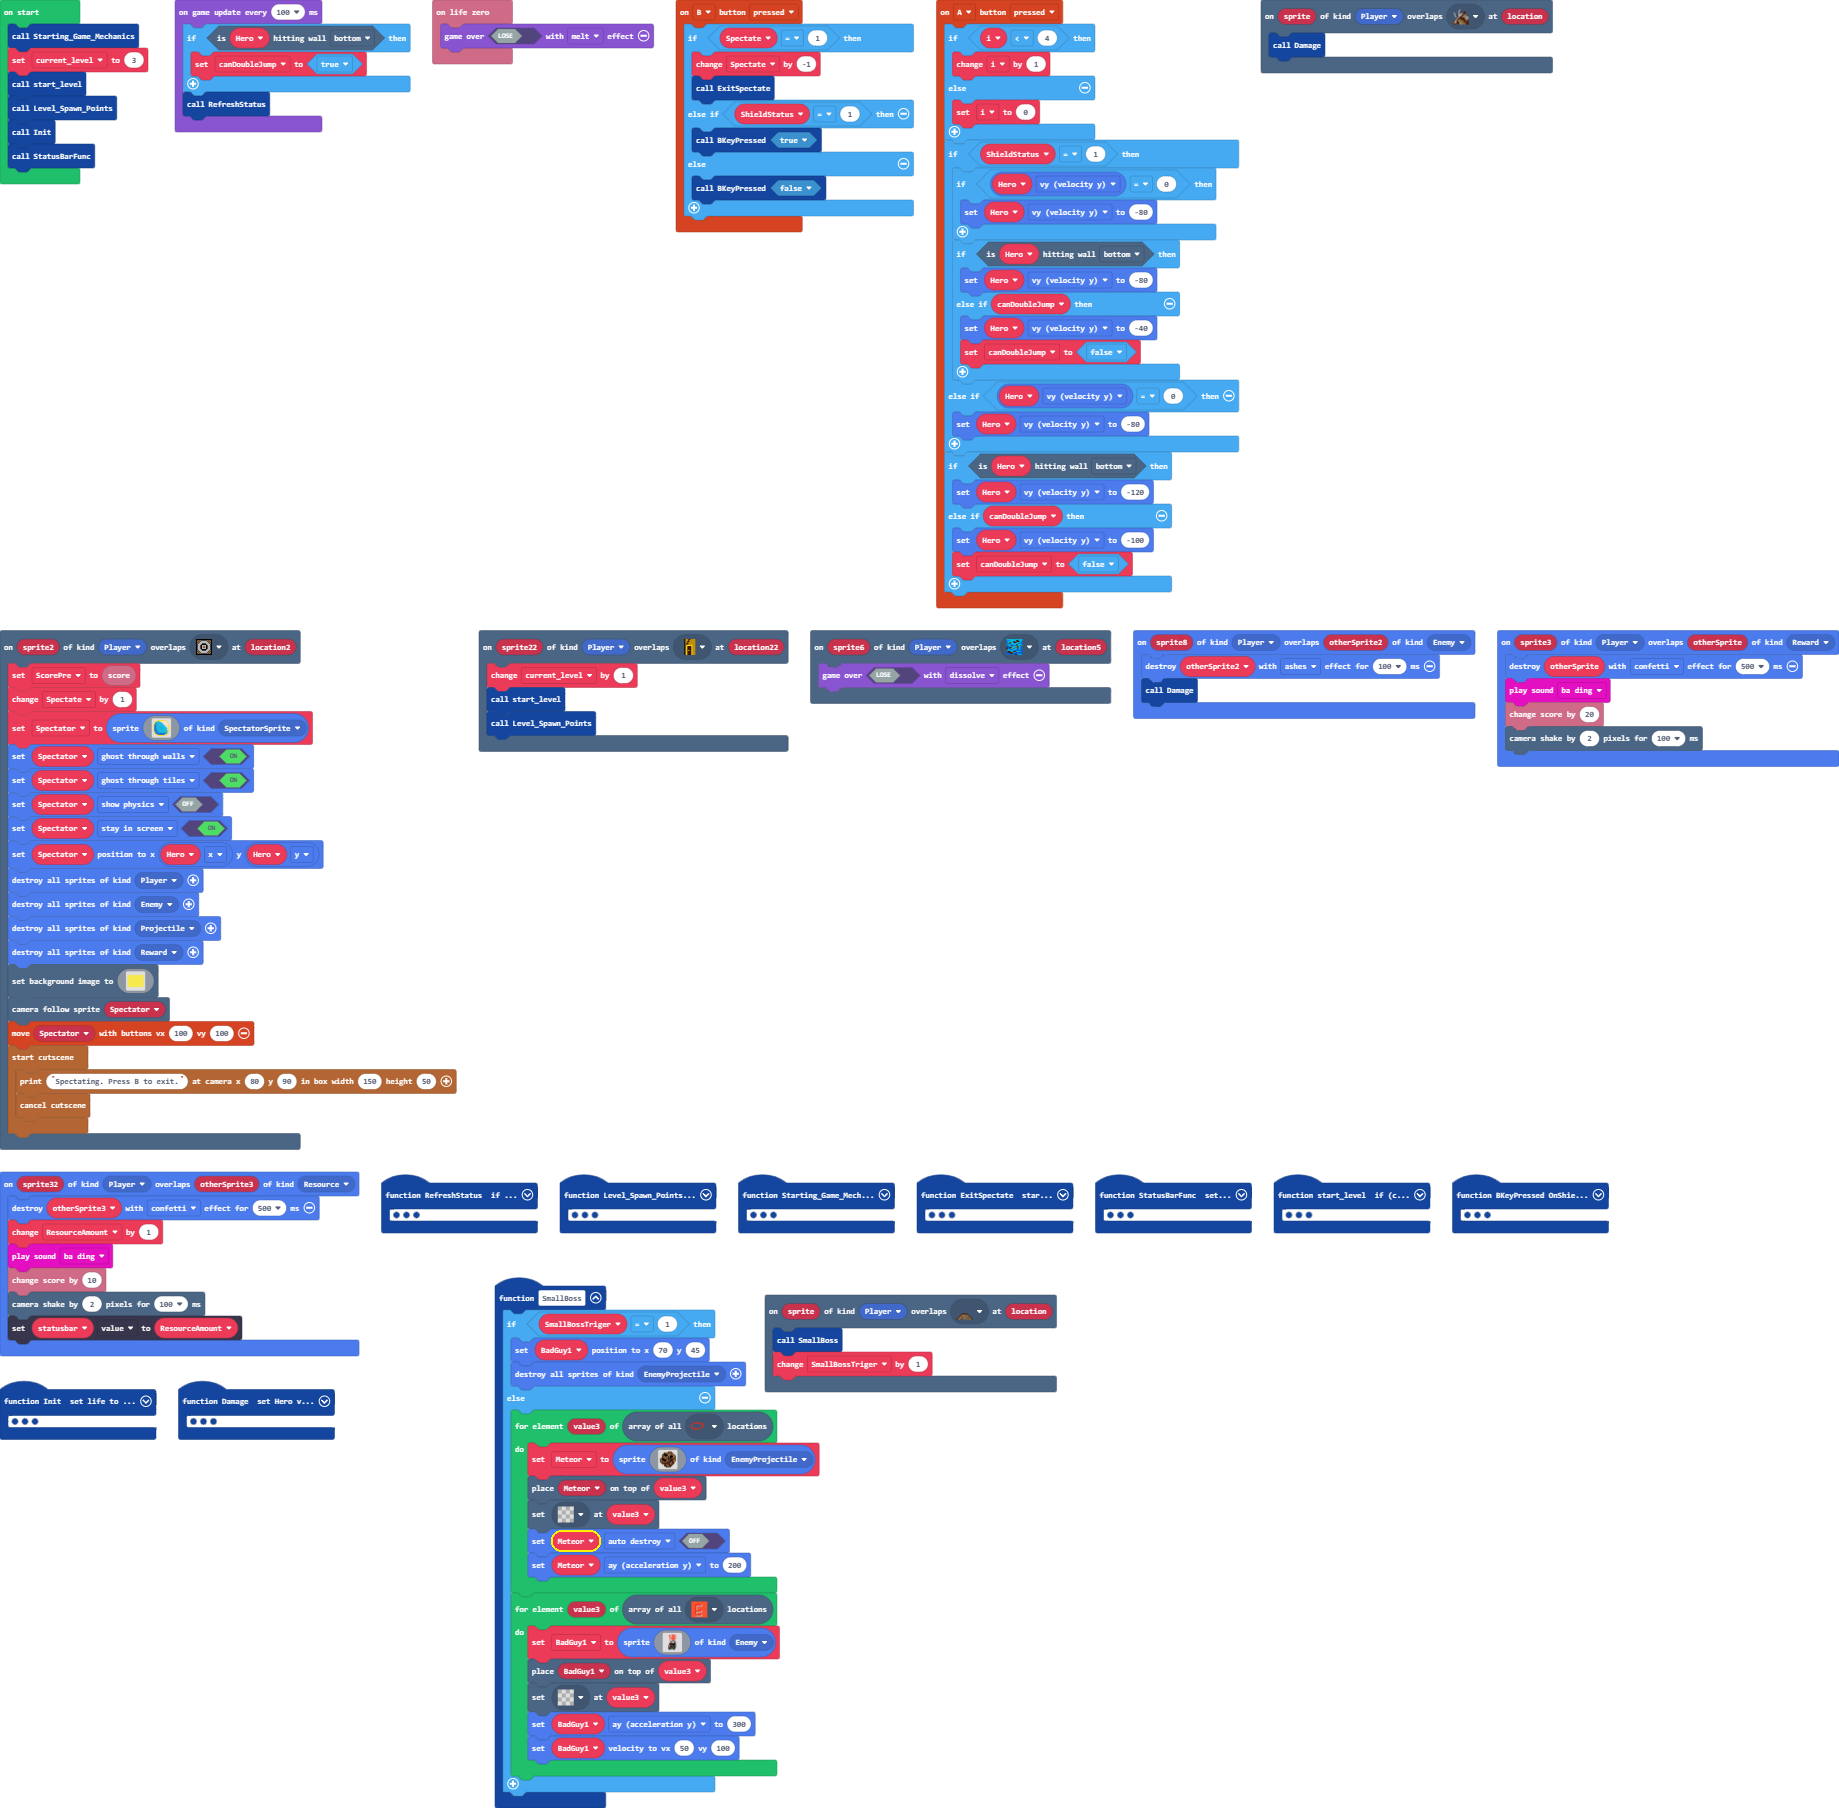
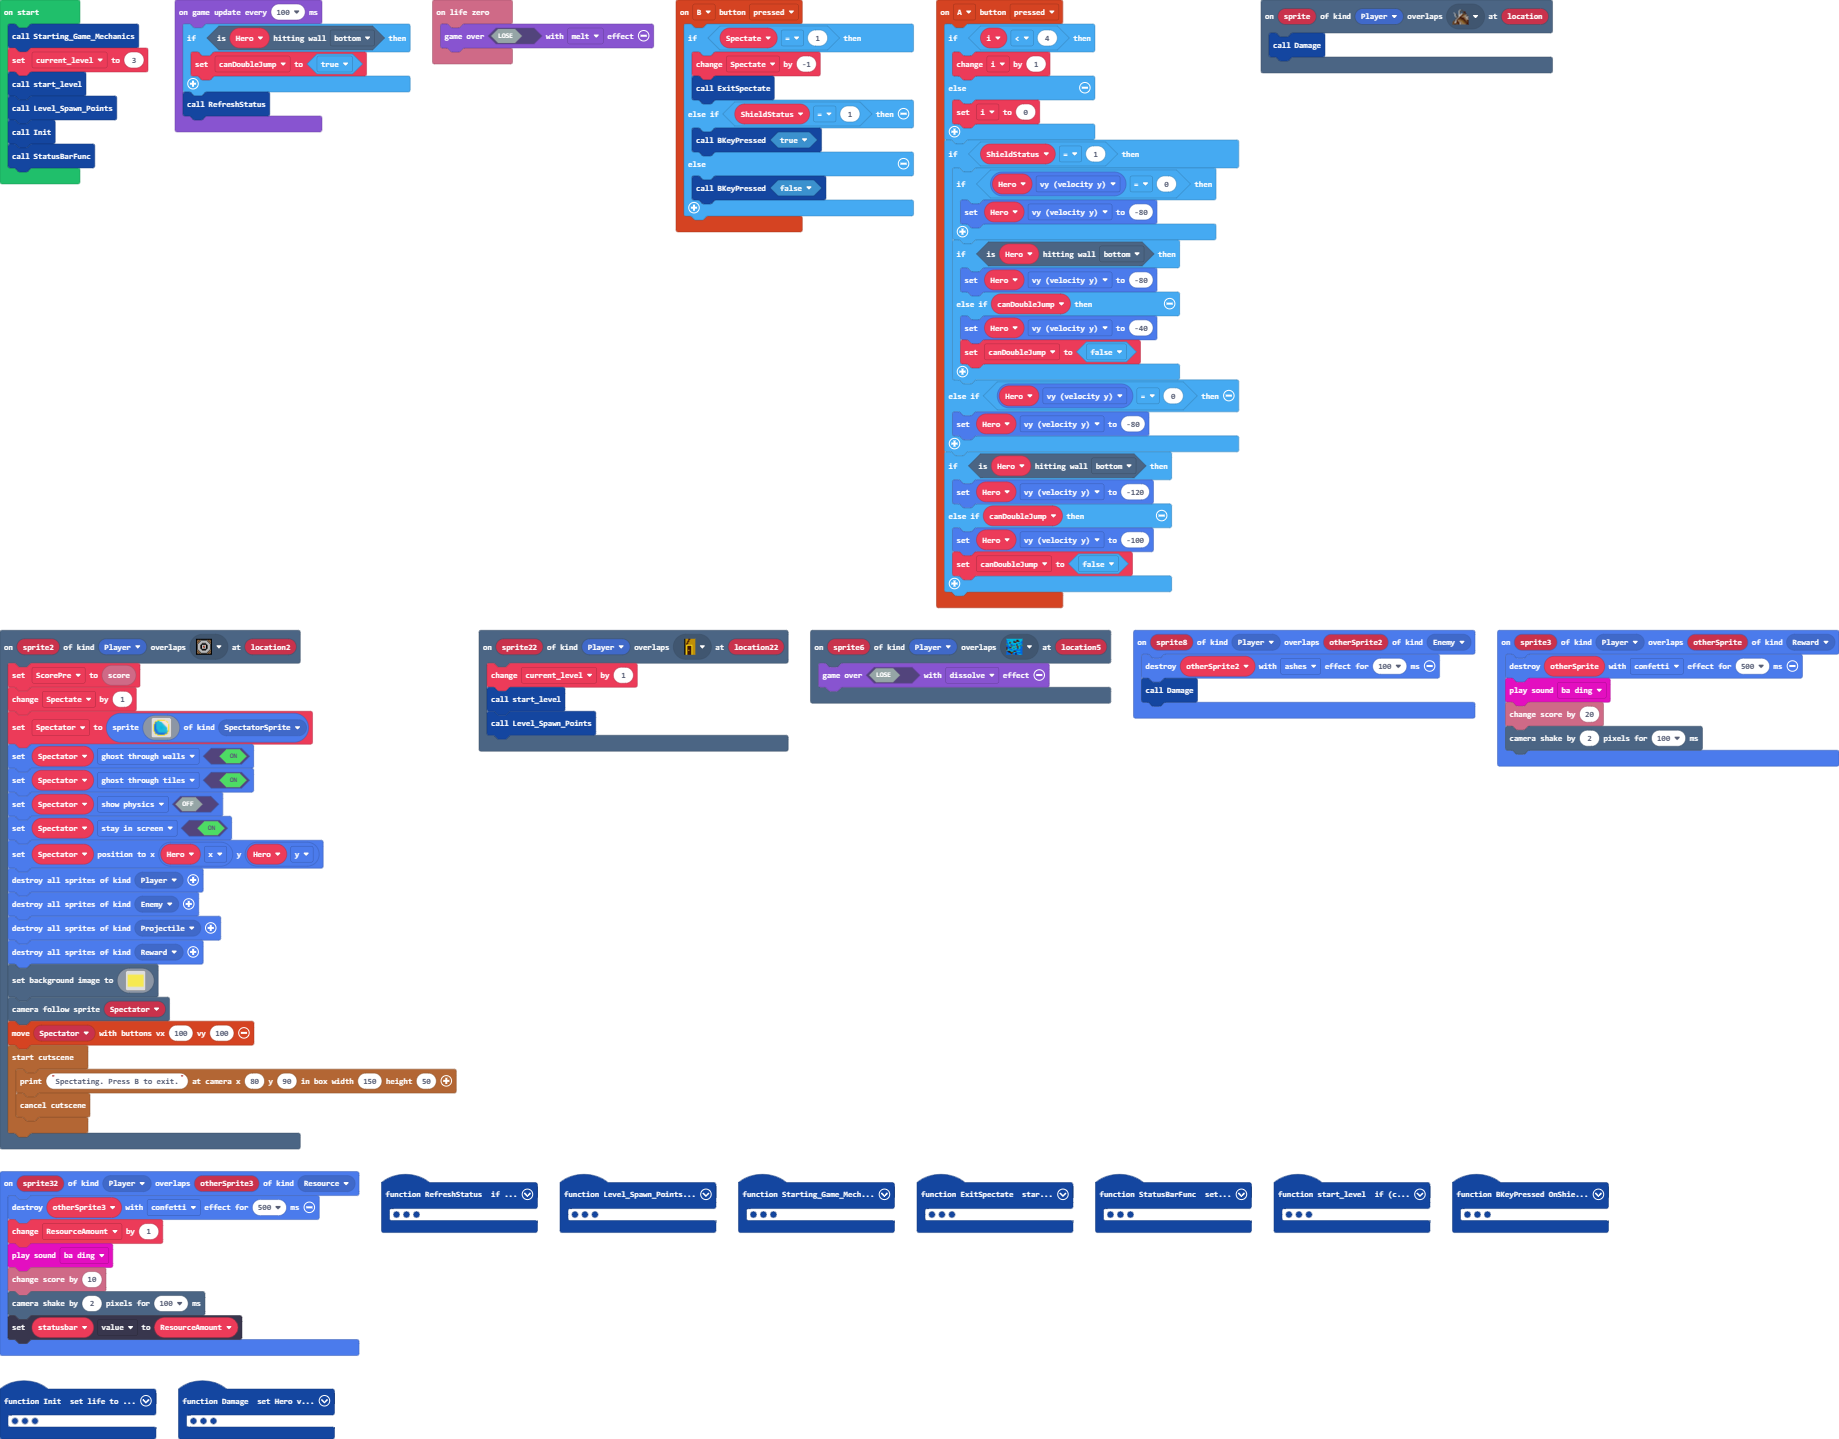
Update main.blocks, main.ts, tilemap.g.jres, tilemap.g.ts

Changed region(s): [[0.0, 0.3363, 0.8989, 1.0], [0.0, 0.0, 1.0, 0.5504], [0.6819, 0.0, 0.8679, 0.0612]]

diff --git a/tilemap.g.ts b/tilemap.g.ts
@@ -9,8 +9,6 @@ namespace myTiles {
     //% fixedInstance jres blockIdentity=images._tile
     export const tile5 = image.ofBuffer(hex``);
     //% fixedInstance jres blockIdentity=images._tile
-    export const tile6 = image.ofBuffer(hex``);
-    //% fixedInstance jres blockIdentity=images._tile
     export const tile14 = image.ofBuffer(hex``);
     //% fixedInstance jres blockIdentity=images._tile
     export const tile15 = image.ofBuffer(hex``);
@@ -65,7 +63,7 @@ namespace myTiles {
     //% fixedInstance jres blockIdentity=images._tile
     export const tile2 = image.ofBuffer(hex``);
     //% fixedInstance jres blockIdentity=images._tile
-    export const tile32 = image.ofBuffer(hex``);
+    export const tile6 = image.ofBuffer(hex``);
 
     helpers._registerFactory("tilemap", function(name: string) {
         switch(helpers.stringTrim(name)) {
@@ -142,44 +140,25 @@ namespace myTiles {
 2222222222222222222.............222222222222222222
 2222222222222222222.............222222222222222222
 `, [myTiles.transparency16,myTiles.tile5,myTiles.tile16,myTiles.tile22,myTiles.tile23,myTiles.tile14,myTiles.tile4,myTiles.tile3,myTiles.tile7,myTiles.tile10,myTiles.tile21,myTiles.tile1,myTiles.tile11,myTiles.tile9,myTiles.tile13,myTiles.tile17,sprites.dungeon.hazardWater,sprites.builtin.forestTiles0], TileScale.Sixteen);
-            case "level4":
-            case "level4":return tiles.createTilemap(hex`1000100000000000000000000000000000000000000000000000000000000000000000000000000000000000000000000000000000000000000000000000000000000000000000000000000000000000000000000000000000000000000000000000000000000000000000000000000000000000000000000000000000000000000000000000000000000000000000000000000000000000000000000000000000000000000000000000000000000000000000000000000000000000000000000000000000000000000000000000000000000000000000000000000000000000000000000000000000000000000000000000000000000000000000000000000000000000`, img`
-. . . . . . . . . . . . . . . . 
-. . . . . . . . . . . . . . . . 
-. . . . . . . . . . . . . . . . 
-. . . . . . . . . . . . . . . . 
-. . . . . . . . . . . . . . . . 
-. . . . . . . . . . . . . . . . 
-. . . . . . . . . . . . . . . . 
-. . . . . . . . . . . . . . . . 
-. . . . . . . . . . . . . . . . 
-. . . . . . . . . . . . . . . . 
-. . . . . . . . . . . . . . . . 
-. . . . . . . . . . . . . . . . 
-. . . . . . . . . . . . . . . . 
-. . . . . . . . . . . . . . . . 
-. . . . . . . . . . . . . . . . 
-. . . . . . . . . . . . . . . . 
-`, [myTiles.transparency16], TileScale.Sixteen);
             case "level":
-            case "level3":return tiles.createTilemap(hex`1000100000000000000000000000000000000000000000000000000000000000000000000000000000080008000800000000000000000000000000000000000000000000000000000000000000000000000000000000000000000000000000000000000000000000000000000000000000000000000000000000000000000000000000000000000000000000000000000000000000000000000000000000000000000000000000000000000000000000000000000000000000000000000000000000000702000600000000000000000306000001040404040404040404040404040404040505050505050505050505050505050505050505050505050505050505050505`, img`
+            case "level3":return tiles.createTilemap(hex`1000100005080800000000000000000000000000080808080000000000000000000000000707070707070707070000000000000000060000060006000600000000000000000600000600060006000700000000000006000006000600060006000000000000060000060006000600060007000000000600000600060006000700060000000006000006000600070006000600000000060000060007000600060006000000000600000700060006000600060000000006070006000600060006000600000302060609060906090609060906000001040404040404040404040404040404040000000000000000000000000000000000000000000000000000000000000000`, img`
+. 2 2 . . . . . . . . . . . . . 
+2 2 2 2 . . . . . . . . . . . . 
+2 2 2 2 2 2 2 2 2 . . . . . . . 
+. 2 . . 2 . 2 . 2 . . . . . . . 
+. . . . . . . . . . 2 . . . . . 
 . . . . . . . . . . . . . . . . 
-. . . . . . . . . . . . . . . . 
-. . . . . . . . . . . . . . . . 
-. . . . . . . . . . . . . . . . 
-. . . . . . . . . . . . . . . . 
-. . . . . . . . . . . . . . . . 
-. . . . . . . . . . . . . . . . 
-. . . . . . . . . . . . . . . . 
-. . . . . . . . . . . . . . . . 
-. . . . . . . . . . . . . . . . 
-. . . . . . . . . . . . . . . . 
-. . . . . . . . . . . . . . . 2 
-. . . . . . . . . . . . . . . . 
+. . . . . . . . . . . . 2 . . . 
+. . . . . . . . . . 2 . 2 . . . 
+. . . . . . . . 2 . 2 . 2 . . . 
+. . . . . . 2 . 2 . 2 . 2 . . . 
+. . . . 2 . 2 . 2 . 2 . 2 . . . 
+. . 2 . 2 . 2 . 2 . 2 . 2 . . 2 
+. . 2 . 2 . 2 . 2 . 2 . 2 . . . 
 2 2 2 2 2 2 2 2 2 2 2 2 2 2 2 2 
 2 2 2 2 2 2 2 2 2 2 2 2 2 2 2 2 
 2 2 2 2 2 2 2 2 2 2 2 2 2 2 2 2 
-`, [myTiles.transparency16,myTiles.tile21,myTiles.tile16,myTiles.tile6,myTiles.tile23,myTiles.tile3,myTiles.tile25,myTiles.tile1,myTiles.tile32], TileScale.Sixteen);
+`, [myTiles.transparency16,myTiles.tile21,myTiles.tile16,myTiles.tile1,myTiles.tile9,myTiles.tile8,myTiles.tile19,myTiles.tile20,myTiles.tile28,myTiles.tile2], TileScale.Sixteen);
         }
         return null;
     })
@@ -193,8 +172,6 @@ namespace myTiles {
             case "tile16":return tile16;
             case "Reward Spawn":
             case "tile5":return tile5;
-            case "Enemy Spawn Points":
-            case "tile6":return tile6;
             case "myTile4":
             case "tile14":return tile14;
             case "myTile12":
@@ -249,8 +226,8 @@ namespace myTiles {
             case "tile31":return tile31;
             case "myTile0":
             case "tile2":return tile2;
-            case "myTile26":
-            case "tile32":return tile32;
+            case "Enemy Spawn Points":
+            case "tile6":return tile6;
         }
         return null;
     })

diff --git a/main.ts b/main.ts
@@ -9,10 +9,6 @@ namespace SpriteKind {
 scene.onOverlapTile(SpriteKind.Player, assets.tile`myTile0`, function (sprite, location) {
     Damage()
 })
-scene.onOverlapTile(SpriteKind.Player, assets.tile`myTile19`, function (sprite, location) {
-    SmallBoss()
-    SmallBossTriger += 1
-})
 sprites.onOverlap(SpriteKind.Player, SpriteKind.Enemy, function (sprite8, otherSprite2) {
     otherSprite2.destroy(effects.ashes, 100)
     Damage()
@@ -223,27 +219,6 @@ controller.A.onEvent(ControllerButtonEvent.Pressed, function () {
         canDoubleJump = false
     }
 })
-function SmallBoss () {
-    if (SmallBossTriger == 1) {
-        BadGuy1.setPosition(70, 45)
-        sprites.destroyAllSpritesOfKind(SpriteKind.EnemyProjectile)
-    } else {
-        for (let value3 of tiles.getTilesByType(assets.tile`myTile26`)) {
-            Meteor = sprites.create(assets.image`myImage9`, SpriteKind.EnemyProjectile)
-            tiles.placeOnTile(Meteor, value3)
-            tiles.setTileAt(value3, assets.tile`transparency16`)
-            Meteor.setFlag(SpriteFlag.AutoDestroy, false)
-            Meteor.ay = 200
-        }
-        for (let value3 of tiles.getTilesByType(assets.tile`Enemy Spawn Points`)) {
-            BadGuy1 = sprites.create(assets.image`Enemy1`, SpriteKind.Enemy)
-            tiles.placeOnTile(BadGuy1, value3)
-            tiles.setTileAt(value3, assets.tile`transparency16`)
-            BadGuy1.ay = 300
-            BadGuy1.setVelocity(50, 100)
-        }
-    }
-}
 function RefreshStatus () {
     if (controller.right.isPressed()) {
         AngleShield = 10
@@ -633,8 +608,6 @@ let Spectator: Sprite = null
 let statusbar: StatusBarSprite = null
 let ScorePre = 0
 let AngleShield = 0
-let Meteor: Sprite = null
-let BadGuy1: Sprite = null
 let i = 0
 let canDoubleJump = false
 let ResourceAmount = 0
@@ -643,7 +616,6 @@ let Reward2: Sprite = null
 let Hero: Sprite = null
 let ShieldStatus = 0
 let Spectate = 0
-let SmallBossTriger = 0
 let current_level = 0
 Starting_Game_Mechanics()
 current_level = 3
